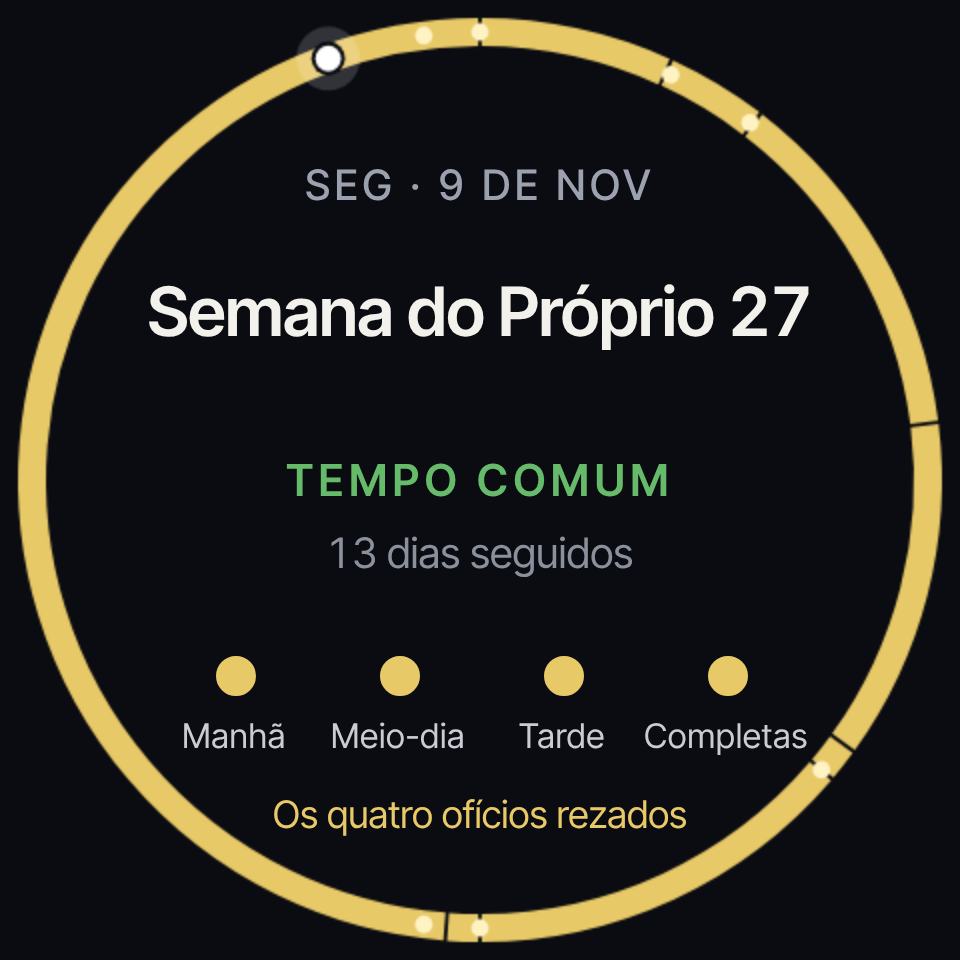
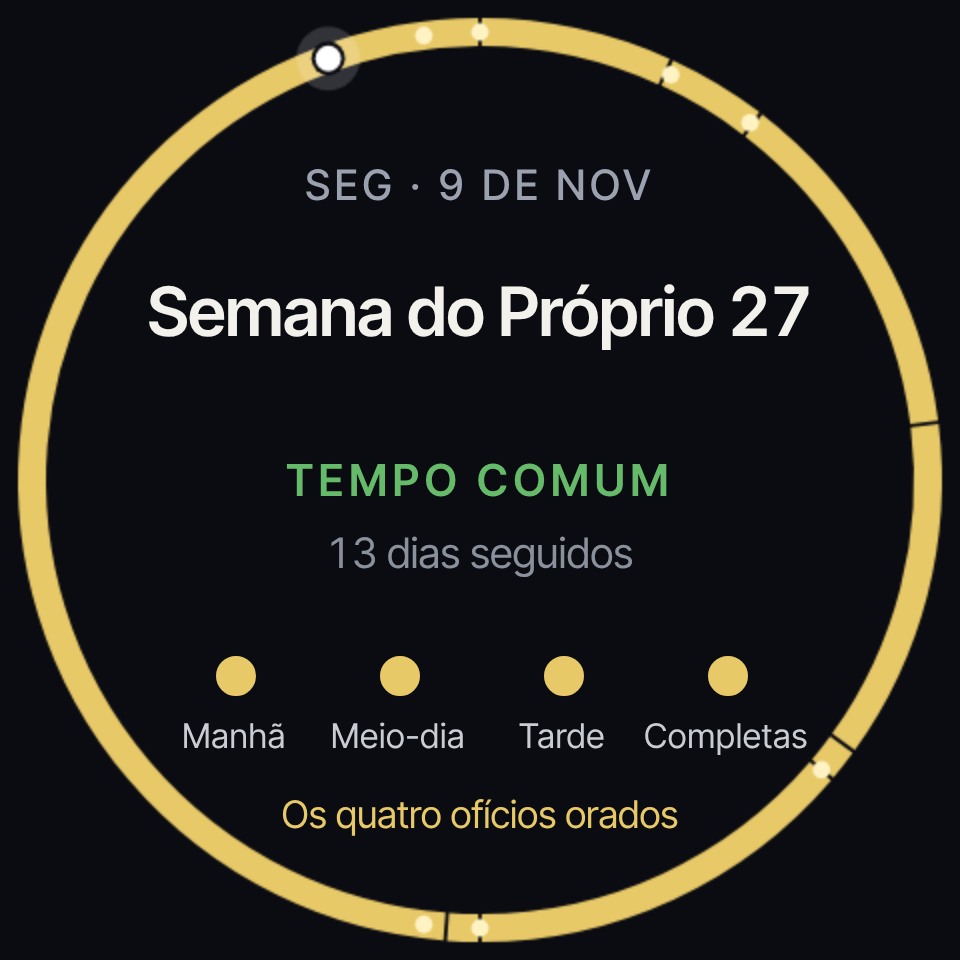
fix(miblo): say "orar", not "rezar", for praying an office
The Ordo app speaks of offices as prayed ("orados"); the Desk app, its store
texts and the all-done screenshot now use the same word.

Claude-Session: https://claude.ai/code/session_01NddpYW9GAPN1kfXKGB57Ek

Changed region(s): [[0.2812, 0.8125, 0.7188, 0.875]]

diff --git a/miblo/ordo-dia/page.html b/miblo/ordo-dia/page.html
@@ -99,7 +99,7 @@ const T = {
   pt: {
     locale: 'pt-BR',
     offices: ['Manhã', 'Meio-dia', 'Tarde', 'Completas'],
-    allDone: 'Os quatro ofícios rezados', streak: (n) => `${n} dias seguidos`,
+    allDone: 'Os quatro ofícios orados', streak: (n) => `${n} dias seguidos`,
     readings: 'Leituras de hoje', morning: 'Manhã', evening: 'Tarde',
     slots: { psalm: 'Salmo', psalm_alternative: 'Salmo alt.', first_reading: '1ª leitura', second_reading: '2ª leitura', gospel: 'Evangelho' },
     link: 'Vincule ao Ordo', where: 'No Ordo: Configurações › Aparelhos › Vincular com código', plus: 'Precisa do Ordo+',
@@ -125,7 +125,7 @@ const T = {
   es: {
     locale: 'es',
     offices: ['Mañana', 'Mediodía', 'Tarde', 'Completas'],
-    allDone: 'Los cuatro oficios rezados', streak: (n) => `${n} días seguidos`,
+    allDone: 'Los cuatro oficios orados', streak: (n) => `${n} días seguidos`,
     readings: 'Lecturas de hoy', morning: 'Mañana', evening: 'Tarde',
     slots: { psalm: 'Salmo', psalm_alternative: 'Salmo alt.', first_reading: '1ª lectura', second_reading: '2ª lectura', gospel: 'Evangelio' },
     link: 'Vincule al Ordo', where: 'En Ordo: Ajustes › Dispositivos › Vincular con código', plus: 'Requiere Ordo+',

diff --git a/miblo/ordo-dia/main.js b/miblo/ordo-dia/main.js
@@ -35,7 +35,7 @@ const OFFICES = ['morning', 'midday', 'evening', 'compline'];
 const T = {
   pt: {
     title: 'Oração da Manhã', titleEvening: 'Oração da Tarde',
-    remind: (streak) => (streak > 1 ? `Ainda não rezada hoje. ${streak} dias seguidos: não deixe passar.` : 'Ainda não rezada hoje. Abra o Ordo quando puder.'),
+    remind: (streak) => (streak > 1 ? `Ainda não orada hoje. ${streak} dias seguidos: não deixe passar.` : 'Ainda não orada hoje. Abra o Ordo quando puder.'),
     noApi: 'Sem resposta da API', noApiHint: 'tentando de novo em instantes',
     denied: 'Não foi possível vincular', deniedHint: 'confira no app se a conta tem Ordo+ e menos de 5 aparelhos',
     noStore: 'o vínculo será pedido de novo quando o Hub reiniciar',

diff --git a/miblo/README.md b/miblo/README.md
@@ -8,11 +8,11 @@ na tela do aparelho.
 O app mostra o dia litúrgico da conta do Ordo de quem o instalou: o anel do
 ano litúrgico com a cor de cada tempo e as festas como pontos, a data, o nome
 do dia (a festa ou o santo quando há), o tempo na sua cor e os quatro ofícios
-(Manhã, Meio-dia, Tarde, Completas) marcados conforme a pessoa reza no app;
+(Manhã, Meio-dia, Tarde, Completas) marcados conforme a pessoa ora no app;
 quando os quatro estão feitos, o anel fica dourado. Com a opção ligada, a
 tela alterna com as leituras do dia. Lembretes opcionais da Oração da Manhã e
 da Tarde avisam no Miblo, no horário escolhido, se o ofício ainda não foi
-rezado.
+orado.
 
 Como todo aparelho do Ordo, o app **só lê**. Concluir um ofício continua no
 app; a tela reflete isso em até cinco minutos. Precisa de **Ordo+**.
